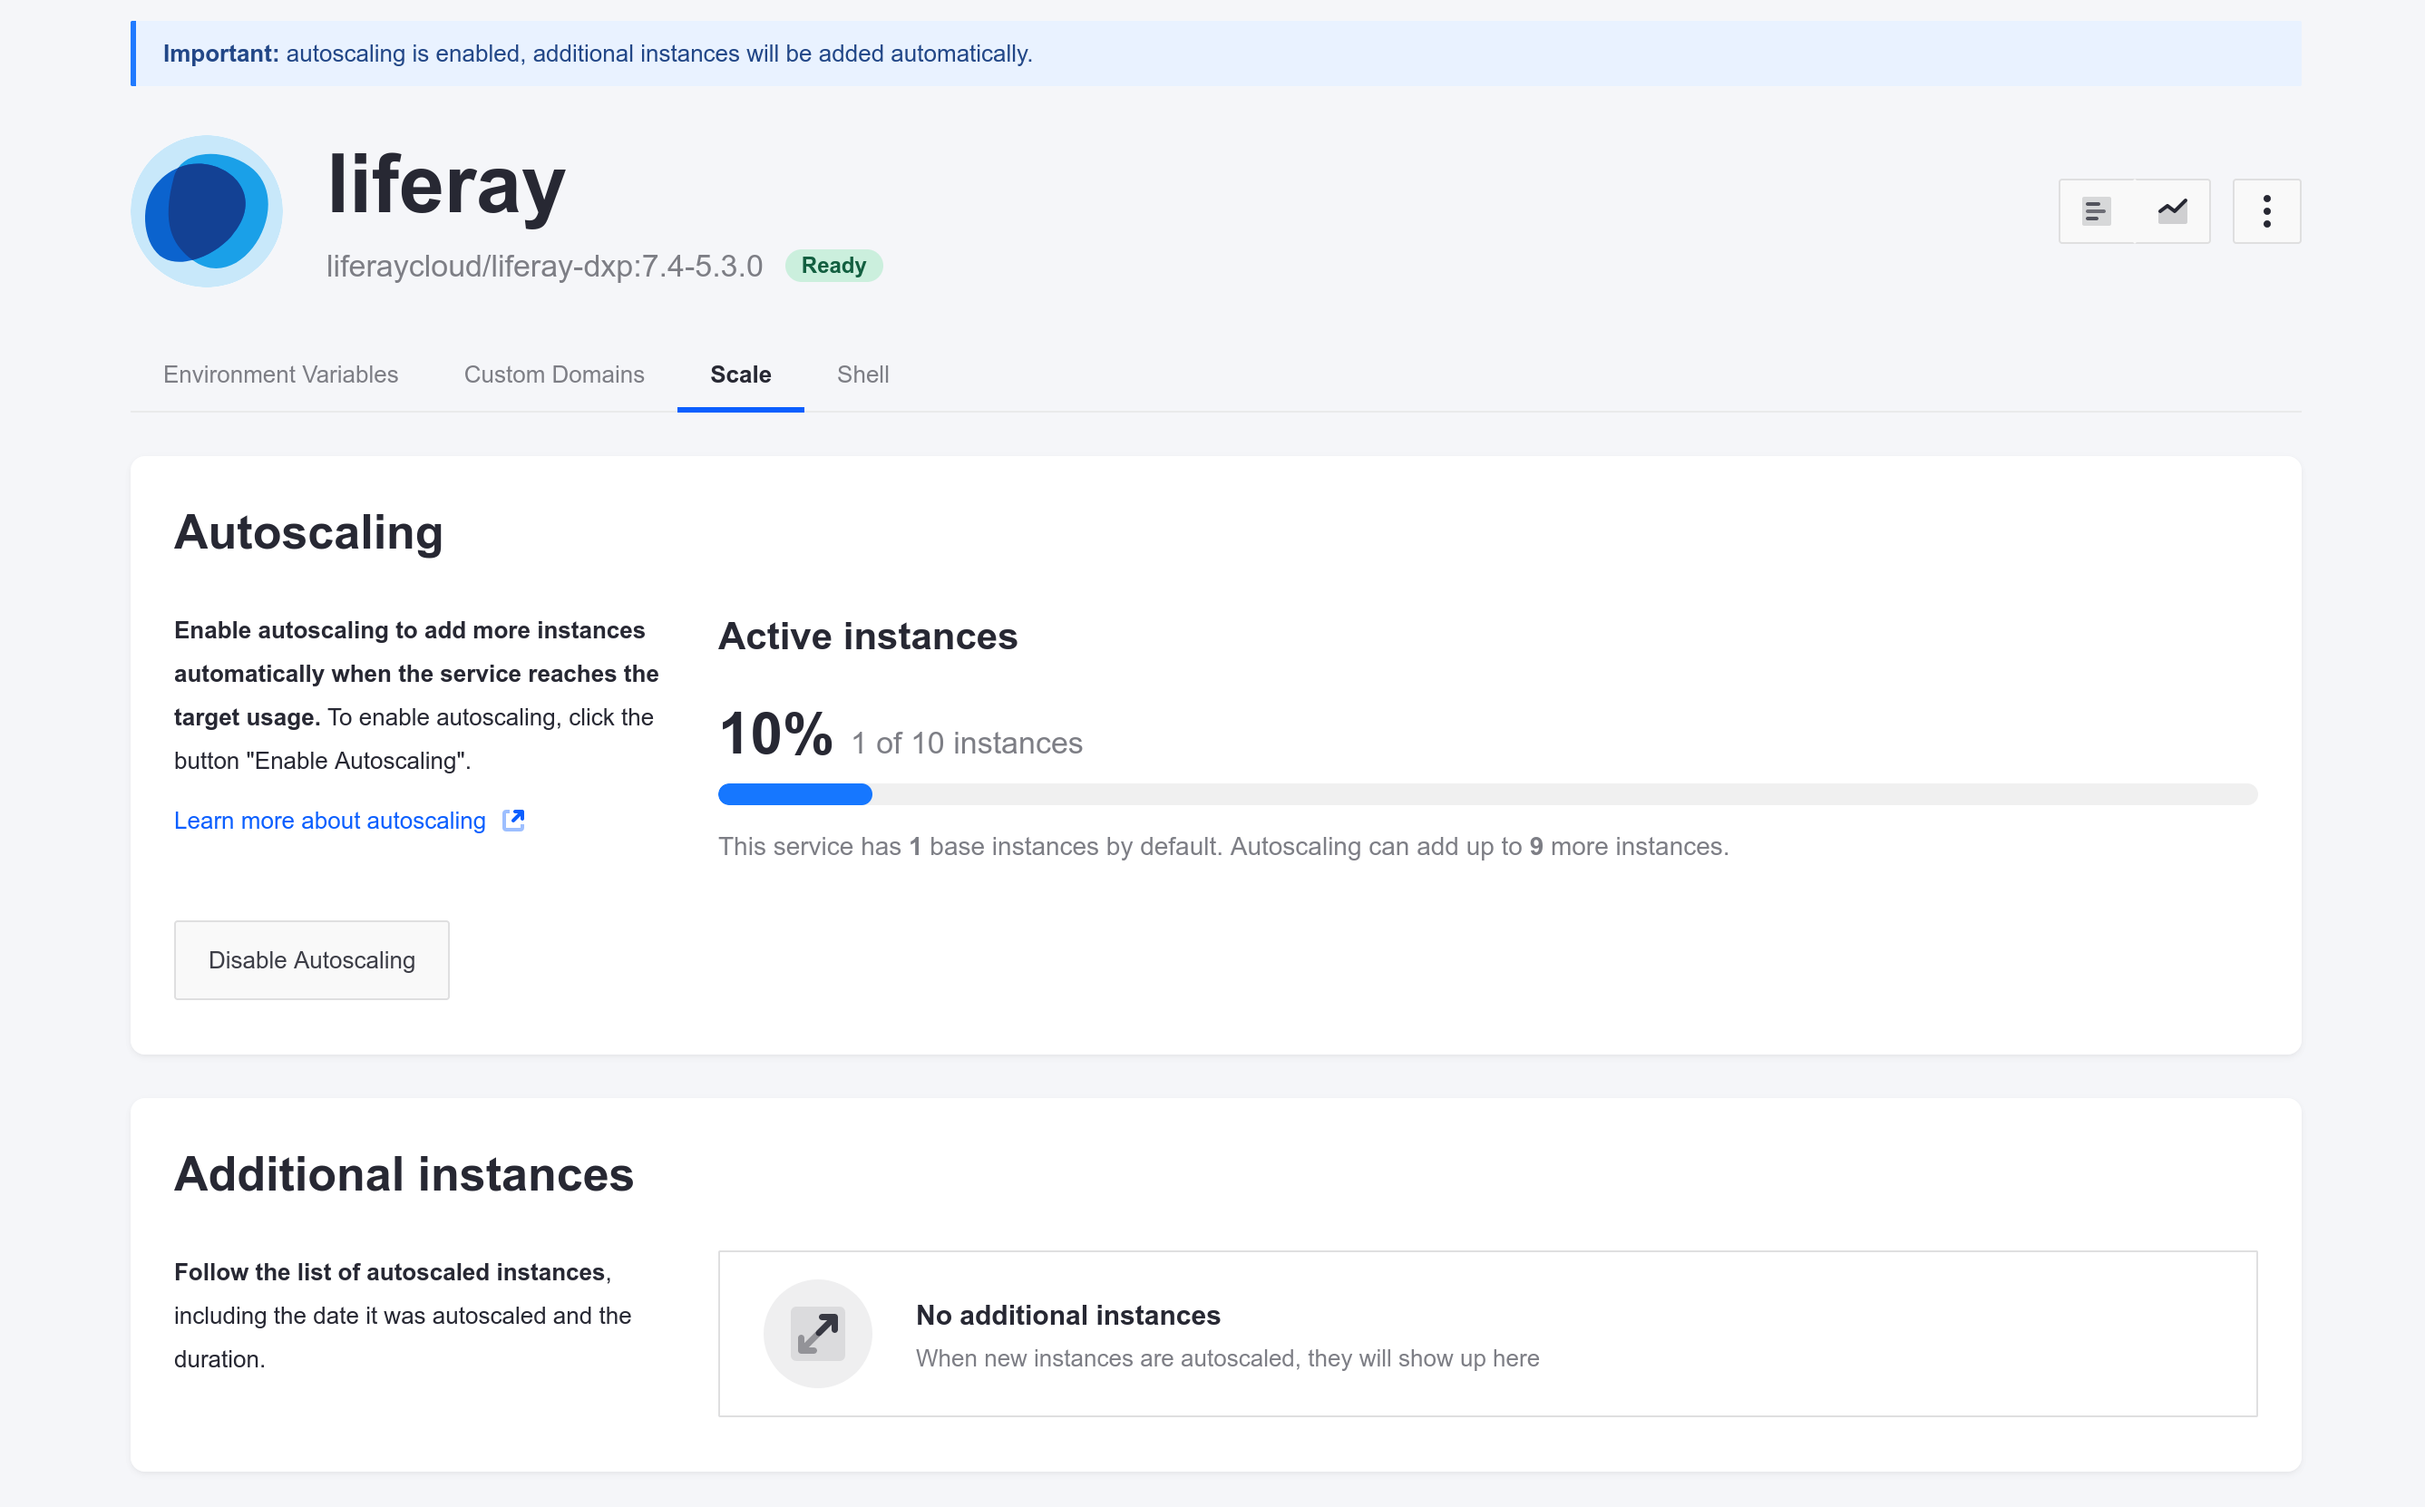
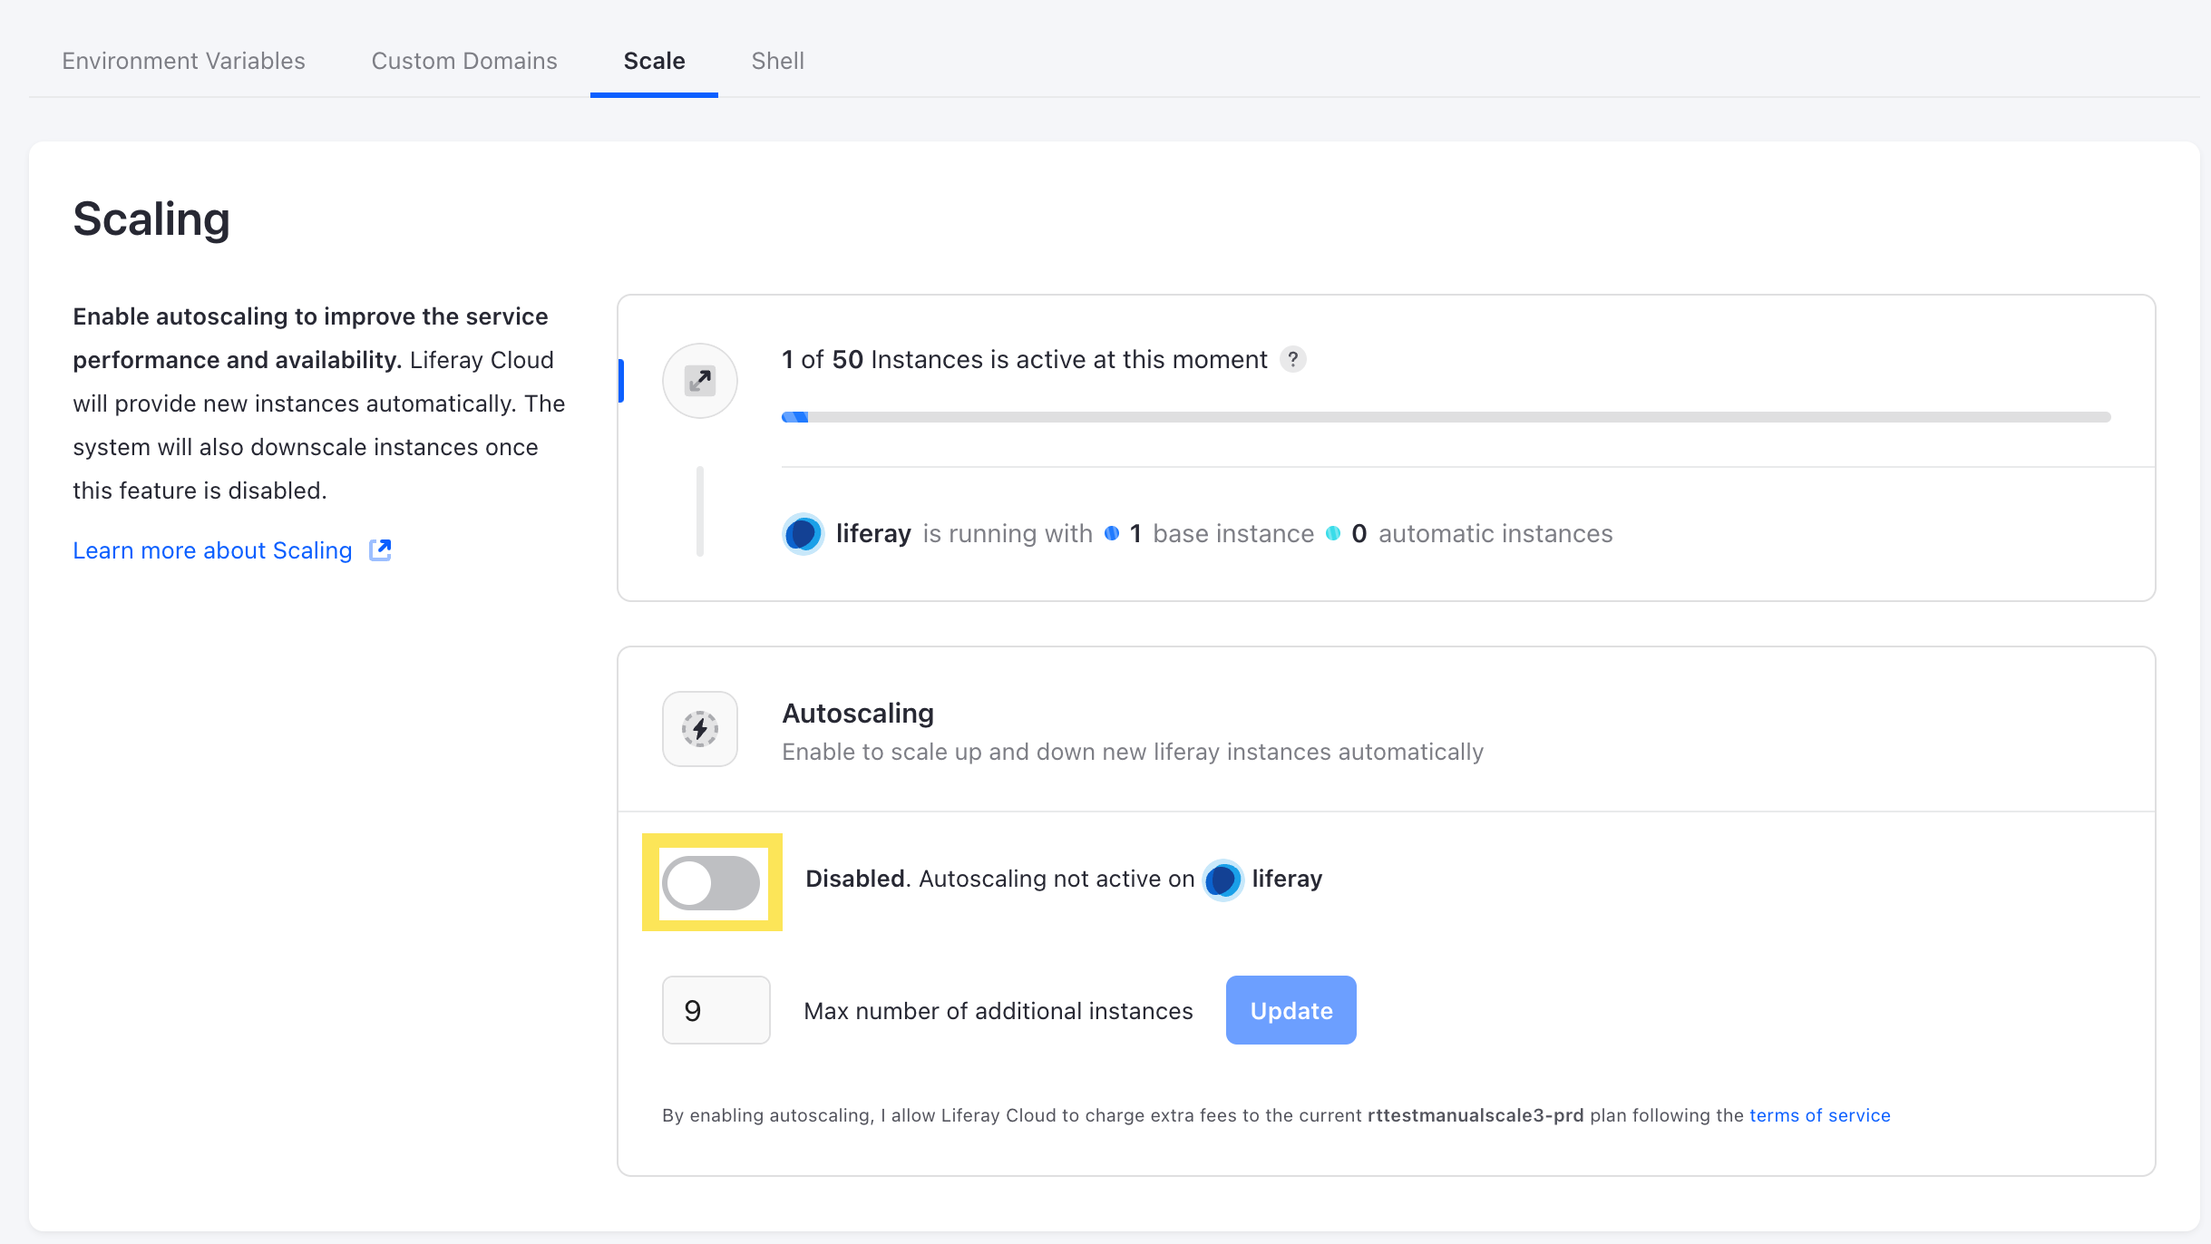
LRDOCS-12455 Changes to configure max instances in UI for auto-scaling

diff --git a/docs/liferay-cloud/latest/en/manage-and-optimize/auto-scaling.md b/docs/liferay-cloud/latest/en/manage-and-optimize/auto-scaling.md
@@ -52,11 +52,26 @@ Follow these steps to enable or disable auto-scaling in the Liferay Cloud Consol
 
 1. Navigate to the production environment.
 1. Navigate to *Services* &rarr; *Liferay* &rarr; *Scale*.
-1. If auto-scaling is disabled, click *Enable Auto Scaling* to enable it. If auto-scaling is already enabled, click *Disable Auto Scaling* to disable it.
+1. Toggle the switch to disable or enable
 
-With auto-scaling enabled, Liferay Cloud monitors your service and scales it automatically according to predefined thresholds.
+With auto-scaling enabled, Liferay Cloud monitors your service and scales it automatically according to the threshold you define.
 
-![Figure 1: Enable or disable auto-scaling from your service's Scale tab.](./auto-scaling/images/01.png)
+![Enable or disable auto-scaling from your service's Scale tab.](./auto-scaling/images/01.png)
+
+### Setting the Maximum Number of Instances
+
+By default, auto-scaling can increase the number of instances for the `liferay` service up to 10. However, you can override this default to use more instances if necessary. You must override the default in two places to allow services to use more than the default 10 instances.
+
+1. Set the `LCP_HAPROXY_SERVER_TEMPLATE_BACKEND_NUM` [environment variable](../reference/defining-environment-variables.md) in your [web server service](../platform-services/web-server-service.md) to the highest value needed. The `liferay` service may not scale beyond the maximum number of instances defined in `LCP_HAPROXY_SERVER_TEMPLATE_BACKEND_NUM` (10 by default).
+
+1. On the Liferay service's *Scale* tab, update the number in *Max number of additional instances* to the desired value.
+
+    !!! note
+        This field sets the additional number of instances that auto-scaling can create, adding to the base number of instances. It does not set the total number it can create at maximum.
+
+1. Click *Update*.
+
+Once you have updated both of these configurations, auto-scaling increases your `liferay` service's instances up to your newly defined maximum as needed.
 
 ## Specifying Target Average Utilization
 
@@ -77,24 +92,6 @@ Specify the target average utilization in the `autoscale` property of the servic
 ```
 
 If the `autoscale` property isn't set, the target average utilization defaults to 80 for both CPU and memory utilization.
-
-## Setting the Maximum Number of Instances
-
-By default, auto-scaling can increase the number of instances for the `liferay` service up to 10. However, you can override this default to use more instances if necessary. You must override the default in two places to allow services to use more than the default 10 instances:
-
-1. Set the `LCP_HAPROXY_SERVER_TEMPLATE_BACKEND_NUM` [environment variable](../reference/defining-environment-variables.md) in your [web server service](../platform-services/web-server-service.md) to the highest value needed. The `liferay` service may not scale beyond the maximum number of instances defined in `LCP_HAPROXY_SERVER_TEMPLATE_BACKEND_NUM` (10 by default).
-
-1. Within the `liferay` service's `LCP.json` file, specify the desired maximum instances if it needs more than the default 10. Set the `maxInstances` field within the [`autoscale` object](#specifying-target-average-utilization):
-
-    ```json
-    "autoscale": {
-        "cpu": 80,
-        "memory": 80,
-        "maxInstances": 15
-    }
-    ```
-
-Once you have updated both of these configurations, auto-scaling increases your `liferay` service's instances up to your newly defined maximum as needed.
 
 ## Auto-scaling and DXP Activation Keys
 
